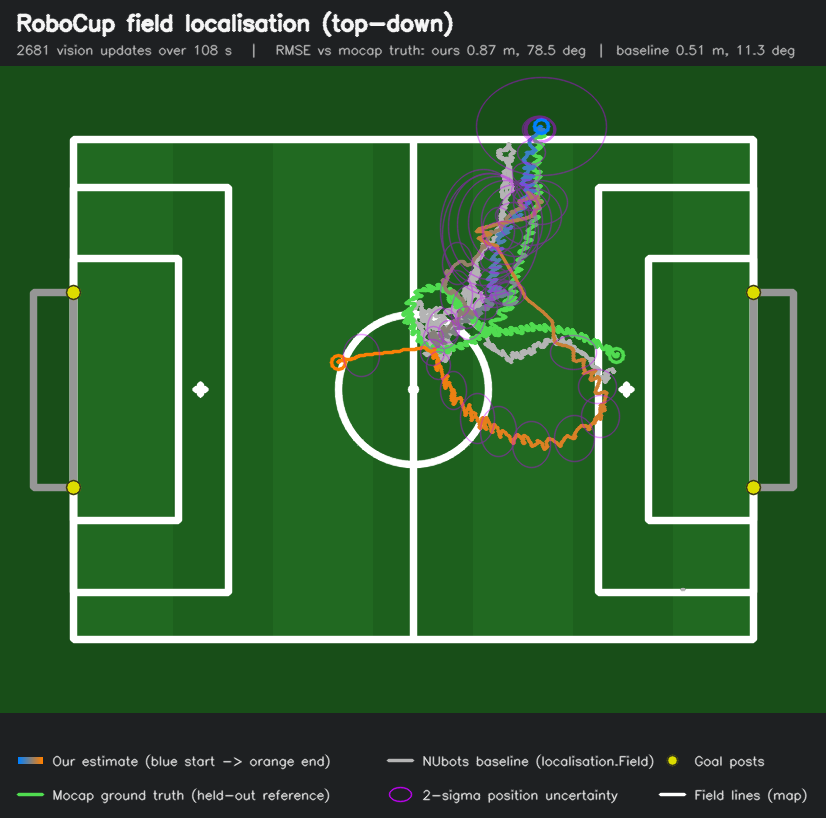
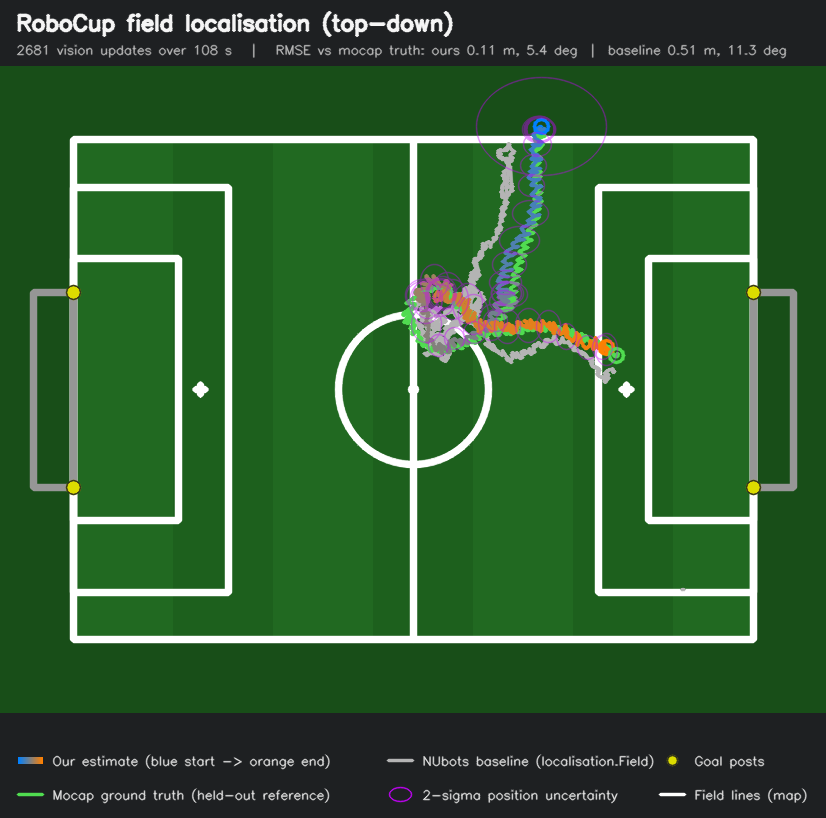
Fix turn-slip yaw drift with gyro-driven prediction and add blind-side flip escape
The data2 mocap exposed two failures behind the 180-degree mirror lock:

1. The walk-engine odometry attitude slips badly while turning (~150 deg
   of yaw lost by t=40 s on odometry alone), so the twist buffer now takes
   angular velocity from the torso gyroscope (bias-calibrated on quiet
   samples) instead of finite-differenced Htw; linear velocity is unchanged.

2. The SideDisambiguator's coverage-fairness gate could never fire when the
   wrong-side pose stares at unmapped territory (own visible 0 vs mirror ~55
   on data2). A blind-own escape now accepts near-clamp LLR with an
   essentially blind own side over a longer leaky streak; the old data/
   false-flip episode peaks at streak 7 vs threshold 40.

Results on data2 vs mocap truth: RMSE 0.107 m / 5.41 deg (NUbots baseline
0.506 m / 11.33 deg); the mirror drift never develops. Yaw error is a
-5.3 deg constant (mocap yaw-offset calibration or camera yaw mount bias)
with 1.1 deg std, and position truth sits inside 3-sigma on every sample.
data/ is unregressed (reprojection residual 5.29 deg, 0 flips) and all
kidnap tests recover, including KIDNAP_T=15 which previously latched in
permanent doubt. NO_MP4=1 skips the video render for fast tuning runs.

diff --git a/nubots/src/SystemLocalisation.cpp b/nubots/src/SystemLocalisation.cpp
@@ -129,6 +129,29 @@ std::vector<BodyTwistSample> SystemLocalisation::twistFromOdometry(const std::ve
     }
     twists.reserve(sensors.size() - 1);
 
+    // Gyroscope bias from quiet samples. While the robot stands still the
+    // gyro reads its bias directly (|omega| well below the walking
+    // oscillation), so the mean over quiet samples calibrates it. The data2
+    // recording shows ~0.75 deg/s of uncorrected z-bias, which otherwise
+    // becomes a steady yaw drift the vision must keep fighting.
+    Eigen::Vector3d gyroBias = Eigen::Vector3d::Zero();
+    {
+        Eigen::Vector3d sum = Eigen::Vector3d::Zero();
+        std::size_t n = 0;
+        for (const SensorsSample & s : sensors)
+        {
+            if (s.gyroscope.allFinite() && s.gyroscope.norm() < 0.05)
+            {
+                sum += s.gyroscope;
+                n++;
+            }
+        }
+        if (n >= 100)
+        {
+            gyroBias = sum/static_cast<double>(n);
+        }
+    }
+
     for (std::size_t k = 1; k < sensors.size(); ++k)
     {
         const SensorsSample & a = sensors[k-1];
@@ -158,6 +181,15 @@ std::vector<BodyTwistSample> SystemLocalisation::twistFromOdometry(const std::ve
         s.t = 0.5*(a.t + b.t) - t0;
         s.vBb = dT.translationVector/dt;
         s.omegaBb = aa.angle()*aa.axis()/dt;
+        // The walk-engine odometry attitude slips badly while turning (data2
+        // mocap: ~150 deg of yaw lost by t=40 s on odometry alone), but the
+        // torso-frame gyroscope measures the angular velocity directly and is
+        // immune to foot slip: prefer it whenever the sample carries one.
+        const Eigen::Vector3d gyro = 0.5*(a.gyroscope + b.gyroscope) - gyroBias;
+        if (gyro.allFinite())
+        {
+            s.omegaBb = gyro;
+        }
         if (!s.vBb.allFinite() || !s.omegaBb.allFinite())
         {
             continue;

diff --git a/nubots/src/SideDisambiguator.cpp b/nubots/src/SideDisambiguator.cpp
@@ -521,7 +521,27 @@ SideDisambiguator::FrameResult SideDisambiguator::process(double t, const cv::Ma
         {
             flipStreak_--;      // Still in doubt, frame unqualifying: leak, don't reset
         }
-        res.flipRequested = flipStreak_ >= options.flipConsecutive;
+
+        // Blind-own escape (see Options): near-clamp LLR, own essentially
+        // blind, mirror matching real structure. Same leak/reset semantics.
+        if (llr_ <= -options.flipBlindLlr
+            && res.nAssociated <= options.flipBlindOwnMax
+            && res.nAssociatedMirror >= std::max(options.flipBlindMinAssoc,
+                   static_cast<std::size_t>(std::ceil(options.flipDominance*static_cast<double>(res.nAssociated)))))
+        {
+            blindStreak_++;
+        }
+        else if (llr_ > -options.flipThreshold)
+        {
+            blindStreak_ = 0;
+        }
+        else if (blindStreak_ > 0)
+        {
+            blindStreak_--;
+        }
+
+        res.flipRequested = flipStreak_ >= options.flipConsecutive
+                         || blindStreak_ >= options.flipBlindConsecutive;
     }
 
     // Map maintenance. Frozen while the pose is uncertain, the side is in
@@ -631,5 +651,6 @@ void SideDisambiguator::notifyFlipApplied(double t)
 {
     llr_ = -llr_;
     flipStreak_ = 0;
+    blindStreak_ = 0;
     mapFreezeUntil_ = t + options.flipCooldown;
 }

diff --git a/nubots/src/SideDisambiguator.h b/nubots/src/SideDisambiguator.h
@@ -132,6 +132,21 @@ public:
         double flipCoverage   = 0.5;    ///< ... and the own hypothesis must have at least this fraction of the
                                         ///< mirror's predicted-visible landmarks: when own looks at unmapped
                                         ///< territory the comparison is structurally unfair, so no decision
+
+        // --- blind-own flip escape ---
+        // When the wrong-side pose stares at territory the map never covered,
+        // the coverage condition above can never become fair and the fair path
+        // never fires. The escape accepts much deeper, longer evidence instead:
+        // the LLR must sit near its clamp while the own pose is essentially
+        // blind (at most one, likely aliased, association) and the mirror keeps
+        // matching real structure. On the recorded false-flip episode (own
+        // merely degraded, not mirrored) own retains associations on most
+        // frames, so the blind streak leaks and never accumulates (max 7 vs
+        // threshold 40); on a genuine mirror lock it reaches 40 within ~2 s.
+        double flipBlindLlr   = 35.0;   ///< Blind path needs the LLR at or below the negative of this [nats]
+        std::size_t flipBlindOwnMax = 1;///< ... with at most this many own-side associations
+        std::size_t flipBlindMinAssoc = 2; ///< ... and at least this many mirror-side associations
+        int flipBlindConsecutive = 40;  ///< ... over this many (leaky) scored frames
         double flipCooldown   = 5.0;    ///< Freeze map building for this long after a flip [s], so the
                                         ///< estimator can re-converge before new observations are trusted
     };
@@ -315,6 +330,7 @@ private:
 
     double llr_ = 0.0;          ///< Accumulated own-vs-mirror log-likelihood ratio [nats]
     int flipStreak_ = 0;        ///< Consecutive scored frames at/below the flip threshold
+    int blindStreak_ = 0;       ///< Leaky streak for the blind-own flip escape
     bool doubt_ = false;        ///< Latched after deep doubt; cleared only by positive evidence
     double mapFreezeUntil_ = -std::numeric_limits<double>::infinity();  ///< Post-flip map-building freeze [s]
     Stats stats_;               ///< Map-building funnel diagnostics

diff --git a/nubots/src/SystemLocalisation.h b/nubots/src/SystemLocalisation.h
@@ -42,9 +42,11 @@ struct BodyTwistSample
  * on the camera side of the extrinsic transform by vision measurements:
  *   Tfc = Tfb(x) * Tbc * R(deltaC)
  *
- * Prediction is driven by a buffer of body-fixed twist samples obtained by
- * finite-differencing the odometry stream (Htw), treated as a known input
- * with additive process noise:
+ * Prediction is driven by a buffer of body-fixed twist samples: linear
+ * velocity from finite-differencing the odometry stream (Htw), angular
+ * velocity from the torso gyroscope (bias-calibrated on quiet samples; the
+ * walk-engine odometry attitude slips badly while turning, the gyro does
+ * not). The twist is treated as a known input with additive process noise:
  *
  *   deta/dt = JK(eta) * nu(t) + dw,   ddeltaC/dt = dw_c
  *
@@ -105,12 +107,14 @@ public:
     }
 
     /**
-     * @brief Build a body-twist buffer by finite-differencing the odometry stream.
+     * @brief Build a body-twist buffer from the odometry and gyroscope streams.
      *
      * For consecutive odometry samples, the relative pose
      * DeltaT = Twt(t1)^{-1} * Twt(t2) with Twt = Htw^{-1} yields
-     * vBb = Delta r / dt and omegaBb = log(Delta R) / dt, stamped at the
-     * interval midpoint. Samples spanning gaps larger than maxGap are skipped.
+     * vBb = Delta r / dt, stamped at the interval midpoint; omegaBb is the
+     * interval-mean gyroscope reading minus the quiet-sample gyro bias
+     * (falling back to log(Delta R) / dt when the gyro is not finite).
+     * Samples spanning gaps larger than maxGap are skipped.
      *
      * @param sensors Time-ordered odometry samples (absolute time [s])
      * @param t0 Time origin subtracted from sample times [s]

diff --git a/nubots/src/fieldLocalisation.cpp b/nubots/src/fieldLocalisation.cpp
@@ -1168,7 +1168,7 @@ void runFieldLocalisation(const std::filesystem::path & dataDir, int interactive
     if (captureFrames)
     {
         LocalisationViewer viewer(map, lens, dataDir / "Left.mp4");
-        if (!outputDirectory.empty())
+        if (!outputDirectory.empty() && !std::getenv("NO_MP4"))
         {
             viewer.exportVideo(viewFrames, outputDirectory / "localisation.mp4");
         }